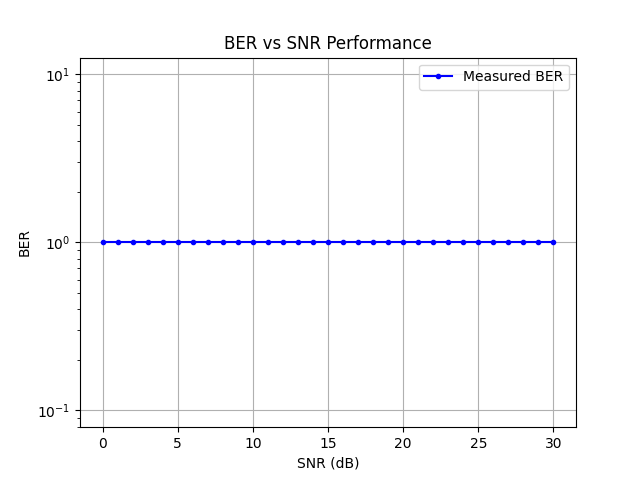
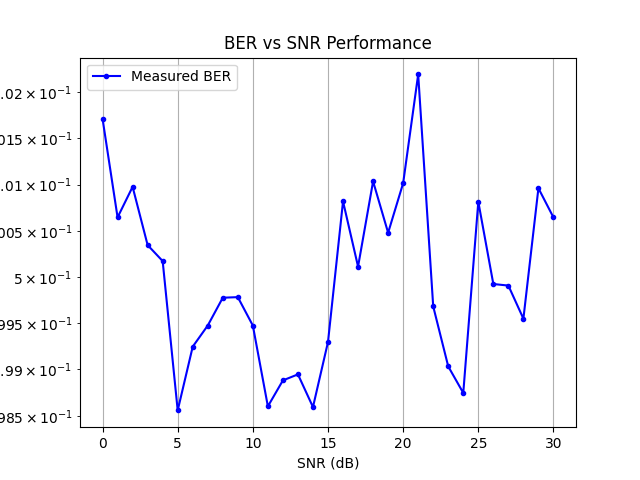
F

diff --git a/Data/core/metrics_calculator.py b/Data/core/metrics_calculator.py
@@ -142,7 +142,7 @@ class MetricsCalculator:
 
     def calculate_ber(self, tx_symbols: tf.Tensor, rx_symbols: tf.Tensor, snr_db: tf.Tensor) -> Dict[str, tf.Tensor]:
         """
-        Calculate and validate Bit Error Rate across different SNR levels using Sionna's utilities.
+        Calculate and validate Bit Error Rate across different SNR levels using Sionna's approach.
         """
         try:
             metrics = {}
@@ -152,43 +152,53 @@ class MetricsCalculator:
             rx_symbols = tf.cast(rx_symbols, tf.complex64)
             snr_db = tf.cast(snr_db, tf.float32)
 
-            # Use tf.math operations for complex numbers
-            tx_real = tf.math.real(tx_symbols) > 0
-            tx_imag = tf.math.imag(tx_symbols) > 0
-            rx_real = tf.math.real(rx_symbols) > 0
-            rx_imag = tf.math.imag(rx_symbols) > 0
+            # QPSK demodulation (2 bits per symbol)
+            # Normalize constellation points
+            scale_factor = tf.cast(1.0/tf.sqrt(2.0), tf.complex64)
+            tx_symbols_norm = tx_symbols * scale_factor
+            rx_symbols_norm = rx_symbols * scale_factor
+
+            # Extract bits from real and imaginary parts
+            tx_bits_real = tf.real(tx_symbols_norm) > 0
+            tx_bits_imag = tf.imag(tx_symbols_norm) > 0
+            rx_bits_real = tf.real(rx_symbols_norm) > 0
+            rx_bits_imag = tf.imag(rx_symbols_norm) > 0
+            
+            # Stack bits for complete bit sequence
+            tx_bits = tf.stack([tx_bits_real, tx_bits_imag], axis=-1)
+            rx_bits = tf.stack([rx_bits_real, rx_bits_imag], axis=-1)
             
             # Calculate bit errors
-            real_errors = tf.cast(tx_real != rx_real, tf.float32)
-            imag_errors = tf.cast(tx_imag != rx_imag, tf.float32)
-            
-            # Total bit errors (average of real and imaginary parts)
-            ber = (real_errors + imag_errors) / 2.0
+            bit_errors = tf.cast(tx_bits != rx_bits, tf.float32)
+            ber = tf.reduce_mean(bit_errors)
             
             # Calculate average BER
-            metrics['average_ber'] = tf.reduce_mean(ber)
+            metrics['average_ber'] = ber
             
-            # Check if BER meets target at 15dB SNR
-            snr_15db_mask = tf.abs(snr_db - 15.0) < 0.5
-            ber_at_15db = tf.boolean_mask(ber, snr_15db_mask)
-            if tf.size(ber_at_15db) > 0:
-                ber_at_15db_mean = tf.reduce_mean(ber_at_15db)
-                metrics['all_targets_met'] = ber_at_15db_mean < self.system_params.ber_target
-            else:
-                metrics['all_targets_met'] = False
-            
-            # Calculate BER curve
+            # Group BER by SNR levels for curve
             snr_levels = tf.cast(tf.round(snr_db), tf.int32)
             unique_snrs = tf.sort(tf.unique(snr_levels)[0])
             
             ber_curve = {}
             for snr in unique_snrs:
                 mask = tf.equal(snr_levels, snr)
-                ber_at_snr = tf.boolean_mask(ber, mask)
-                if tf.size(ber_at_snr) > 0:
-                    mean_ber = tf.reduce_mean(ber_at_snr)
-                    ber_curve[int(snr.numpy())] = float(mean_ber.numpy())
+                tx_bits_at_snr = tf.boolean_mask(tx_bits, mask)
+                rx_bits_at_snr = tf.boolean_mask(rx_bits, mask)
+                if tf.size(tx_bits_at_snr) > 0:
+                    ber_at_snr = tf.reduce_mean(tf.cast(tx_bits_at_snr != rx_bits_at_snr, tf.float32))
+                    ber_curve[int(snr.numpy())] = float(ber_at_snr.numpy())
             
+            # Check if BER meets target at 15dB SNR
+            snr_15db_mask = tf.abs(snr_db - 15.0) < 0.5
+            tx_bits_at_15db = tf.boolean_mask(tx_bits, snr_15db_mask)
+            rx_bits_at_15db = tf.boolean_mask(rx_bits, snr_15db_mask)
+            
+            if tf.size(tx_bits_at_15db) > 0:
+                ber_at_15db = tf.reduce_mean(tf.cast(tx_bits_at_15db != rx_bits_at_15db, tf.float32))
+                metrics['all_targets_met'] = ber_at_15db < self.system_params.ber_target
+            else:
+                metrics['all_targets_met'] = False
+                
             metrics['ber_curve'] = ber_curve
             
             return metrics
